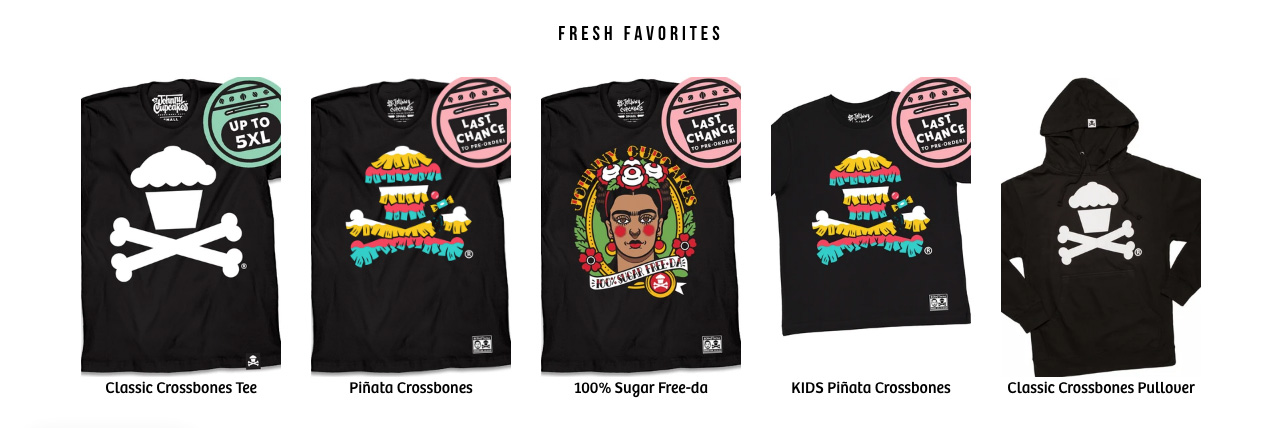
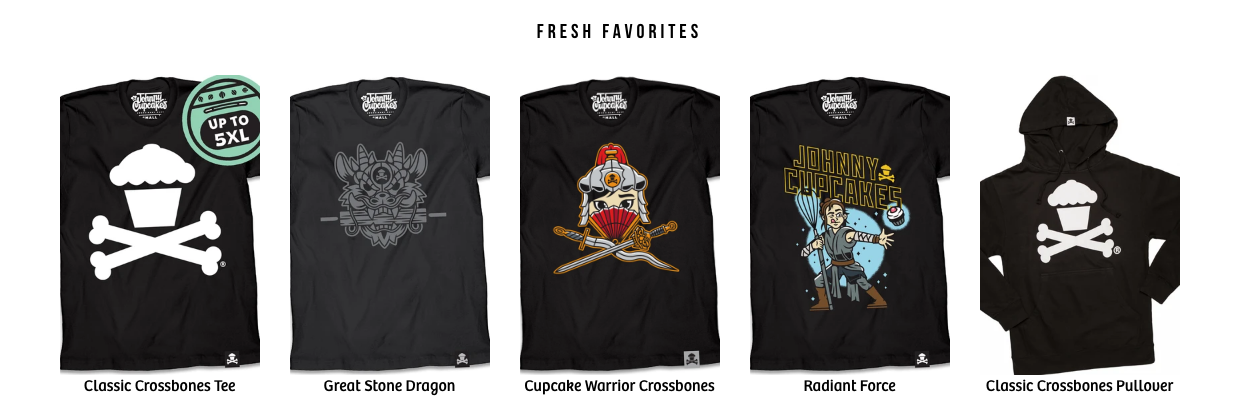
adding social section to componenents

Changed region(s): [[0.0305, 0.1752, 0.9462, 0.9635], [0.4273, 0.0584, 0.5799, 0.1168]]

diff --git a/components/index.html b/components/index.html
@@ -356,13 +356,13 @@
                                <p>Classic Crossbones Tee</p></div>
                         <div class="merch"><img srcset="img/t-shirt-2.jpg 1.1x" src="img/t-shirt-2.jpg"
                                 alt="merch image" />
-                                <p>Pinata Crossbones</p></div>
+                                <p>Great Stone Dragon</p></div>
                         <div class="merch"><img srcset="img/t-shirt-3.jpg 1.1x" src="img/t-shirt-3.jpg"
                                 alt="merch image" />
-                                <p>100% Sugar Free-da</p></div>
+                                <p>Cupcake Warrior Crossbones</p></div>
                         <div class="merch"><img srcset="img/t-shirt-4.jpg 1.1x" src="img/t-shirt-4.jpg"
                                 alt="merch image" />
-                                <p>KIDS Pinata Crossbones</p></div>
+                                <p>Radiant Force</p></div>
                         <div class="merch"><img srcset="img/t-shirt-5.jpg 1.1x" src="img/t-shirt-5.jpg"
                                 alt="merch image" />
                                 <p>Classic Crossbones Pullover</p></div>
@@ -382,25 +382,26 @@
         </div>
 
             <div class="component__code">
-                <div class="badges-section">
-                    <div class="badges-wrapper">
+                <div class="social-section">
+                    <div class="grid-wrapper social">
                         <div class="button__social">
                             <button><a href="#!"><i class="fab fa-facebook-square"></i> Facebook</a></button>
                         </div>
                         <div class="button__social">
-                            <button><a href="#!"><i class="fab fa-facebook-square"></i> Facebook</a></button>
+                            <button><a href="#!"><i class="fab fa-twitter-square"></i> Twitter</a></button>
                         </div>
                         <div class="button__social">
-                            <button><a href="#!"><i class="fab fa-facebook-square"></i> Facebook</a></button>
+                            <button><a href="#!"><i class="fab fa-youtube-square"></i> Youtube</a></button>
                         </div>
                         <div class="button__social">
-                            <button><a href="#!"><i class="fab fa-facebook-square"></i> Facebook</a></button>
+                            <button><a href="#!"><i class="fab fa-instagram-square"></i> Instagram</a></button>
                         </div>
                         <div class="button__social">
-                            <button><a href="#!"><i class="fab fa-facebook-square"></i> Facebook</a></button>
+                            <button><a href="#!"><i class="fas fa-envelope-square"></i> Mailing List</a></button>
                         </div>
                     </div>
                 </div>
+                
             </div><!-- .component-code-->
 
     </article>
@@ -429,9 +430,4 @@
 <script src="https://kit.fontawesome.com/3007713ba7.js" crossorigin="anonymous"></script>
 </body>
 </html>
-
-
-
-
-
-
+        

diff --git a/css/main.css b/css/main.css
@@ -285,34 +285,38 @@ a:link .button__support {
 .button__support:hover button{
     cursor: pointer;
 }
-/**
-* Social Button 
+/****************************************************
+* Social Buttons 
 */
 .button__social button{
     font-family: var(--font-condensed);
     text-transform: uppercase; 
     font-weight: 600;
     font-size: 1.35em;
-    text-align: center;
-    display: block;
-    overflow: hidden;
-    width: 190px;
-    height: 60px;
+    width: 170px;
+    height: 50px;
     border-radius: 50px;
     line-height: 2em;
     color: var(--dark-gray);
-    padding: 0px 0;
-    margin: 10px 10px;
+    padding: 0;
+    margin: 10px 5px;
     background-color: var(--light-gray);
-    border: 2px solid #dbdbdb;
+    border: 1.5px solid #dbdbdb;
   }
-/* a:link .button__social {
-  text-decoration: none;
-  color: var(--light-gray);
+
+.social-section{
+  margin: 0 auto;
+    padding: 40px auto;
+    background-color: var(--light-gray);
+}
+
+.grid-wrapper{
   display: flex;
   align-items: center;
   justify-content: center;
-} */
+
+}
+
 .button__support:hover button{
     cursor: pointer;
 }
@@ -372,7 +376,7 @@ a:link .button__support {
 
 .nav-list, .social-icons{
   display: flex;
-  align-items: center;v
+  align-items: center;
   justify-content: center;
   transition: all 0.25s;
   display: inline-block;
@@ -692,3 +696,5 @@ h4 {
     padding: initial;
   }
 }
+
+
